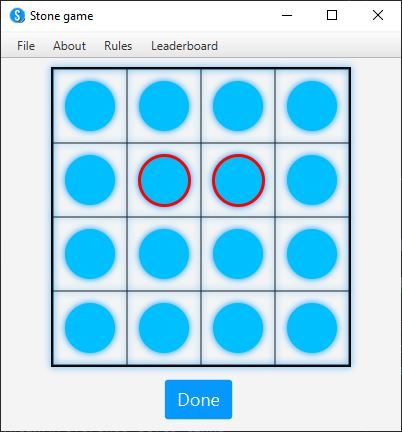
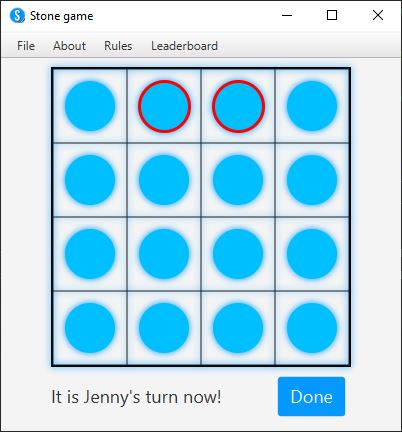
Added who is coming next support.

diff --git a/src/main/java/hu/unideb/inf/homeworkproject/controller/LoginController.java b/src/main/java/hu/unideb/inf/homeworkproject/controller/LoginController.java
@@ -86,18 +86,28 @@ public class LoginController implements Initializable {
      */
     @FXML
     public void startGame(ActionEvent event) {
-        this.gameController.getGameModel().setPlayer1Name(this.player1NameTextField.getText());
-        this.gameController.getGameModel().setPlayer2Name(this.player2NameTextField.getText());
-        this.gameController.getGameModel().setPlayer1Color(this.player1ColorPicker.getValue().toString());
-        this.gameController.getGameModel().setPlayer2Color(this.player2ColorPicker.getValue().toString());
+        if (this.player1NameTextField.getText().isEmpty() && this.player2NameTextField.getText().isEmpty()) {
+            this.gameController.getGameModel().feedBackUser("No player names provided!", Alert.AlertType.WARNING);
+        } else if (this.player1NameTextField.getText().isEmpty()) {
+            this.gameController.getGameModel().feedBackUser("First players name is empty!", Alert.AlertType.WARNING);
+        } else if (this.player2NameTextField.getText().isEmpty()) {
+            this.gameController.getGameModel().feedBackUser("Second players name is empty!", Alert.AlertType.WARNING);
+        } else {
+            this.gameController.getGameModel().setPlayer1Name(this.player1NameTextField.getText());
+            this.gameController.getGameModel().setPlayer2Name(this.player2NameTextField.getText());
+            this.gameController.getGameModel().setPlayer1Color(this.player1ColorPicker.getValue().toString());
+            this.gameController.getGameModel().setPlayer2Color(this.player2ColorPicker.getValue().toString());
 
-        loginControllerLogger.info("player1Color: {}", this.gameController.getGameModel().getPlayer1Color());
-        loginControllerLogger.info("player2Color: {}", this.gameController.getGameModel().getPlayer2Color());
+            loginControllerLogger.info("player1Color: {}", this.gameController.getGameModel().getPlayer1Color());
+            loginControllerLogger.info("player2Color: {}", this.gameController.getGameModel().getPlayer2Color());
 
-        Stage stage = (Stage)((Node)event.getSource()).getScene().getWindow();
-        Scene scene = new Scene(root);
-        stage.setScene(scene);
-        stage.show();
+            this.gameController.getWhosComingLabel().setText("It is " + this.player2NameTextField.getText() + "'s turn now!");
+
+            Stage stage = (Stage)((Node)event.getSource()).getScene().getWindow();
+            Scene scene = new Scene(root);
+            stage.setScene(scene);
+            stage.show();
+        }
     }
 
     /**

diff --git a/src/main/java/hu/unideb/inf/homeworkproject/controller/GameController.java b/src/main/java/hu/unideb/inf/homeworkproject/controller/GameController.java
@@ -19,6 +19,7 @@ import javafx.scene.Node;
 import javafx.scene.Parent;
 import javafx.scene.Scene;
 import javafx.scene.control.Alert;
+import javafx.scene.control.Label;
 import javafx.scene.control.MenuBar;
 import javafx.scene.image.Image;
 import javafx.scene.image.ImageView;
@@ -143,6 +144,13 @@ public class GameController implements Initializable {
      * {@code ImageView}.
      */
     private ImageView[] handImageViewHolder;
+
+    /**
+     * A {@code Label} for displaying the name of the
+     * player who is coming next.
+     */
+    @FXML
+    private Label whosComingLabel;
 
     /**
      * This initializes everything before loading the scene.
@@ -277,11 +285,14 @@ public class GameController implements Initializable {
      */
     @FXML
     public void isPlayerDone(final ActionEvent e) {
-        gameControllerLogger.info("Hello from done!");
+        gameControllerLogger.info("Player is done!");
+
+        this.whosComingLabel.setText(String.valueOf(this.gameModel.getWhosComingNext()).equals("1")
+                                                    ? "It is " + this.gameModel.getPlayer2Name() + "'s turn now!"
+                                                    : "It is " + this.gameModel.getPlayer1Name() + "'s turn now!");
 
         if (this.validator.isValidSelection()) {
             removeNodes();
-
             this.gameModel.switchPlayer();
             this.gameModel.clearDeletions();
 
@@ -384,6 +395,14 @@ public class GameController implements Initializable {
      */
     public Color getPlayer1Color() {
         return this.player1Color;
+    }
+
+    /**
+     * Getter for {@code getWhosComingLabel} Label.
+     * @return the {@code Label} for the getWhosComing label.
+     */
+    public Label getWhosComingLabel() {
+        return this.whosComingLabel;
     }
 
     /**
